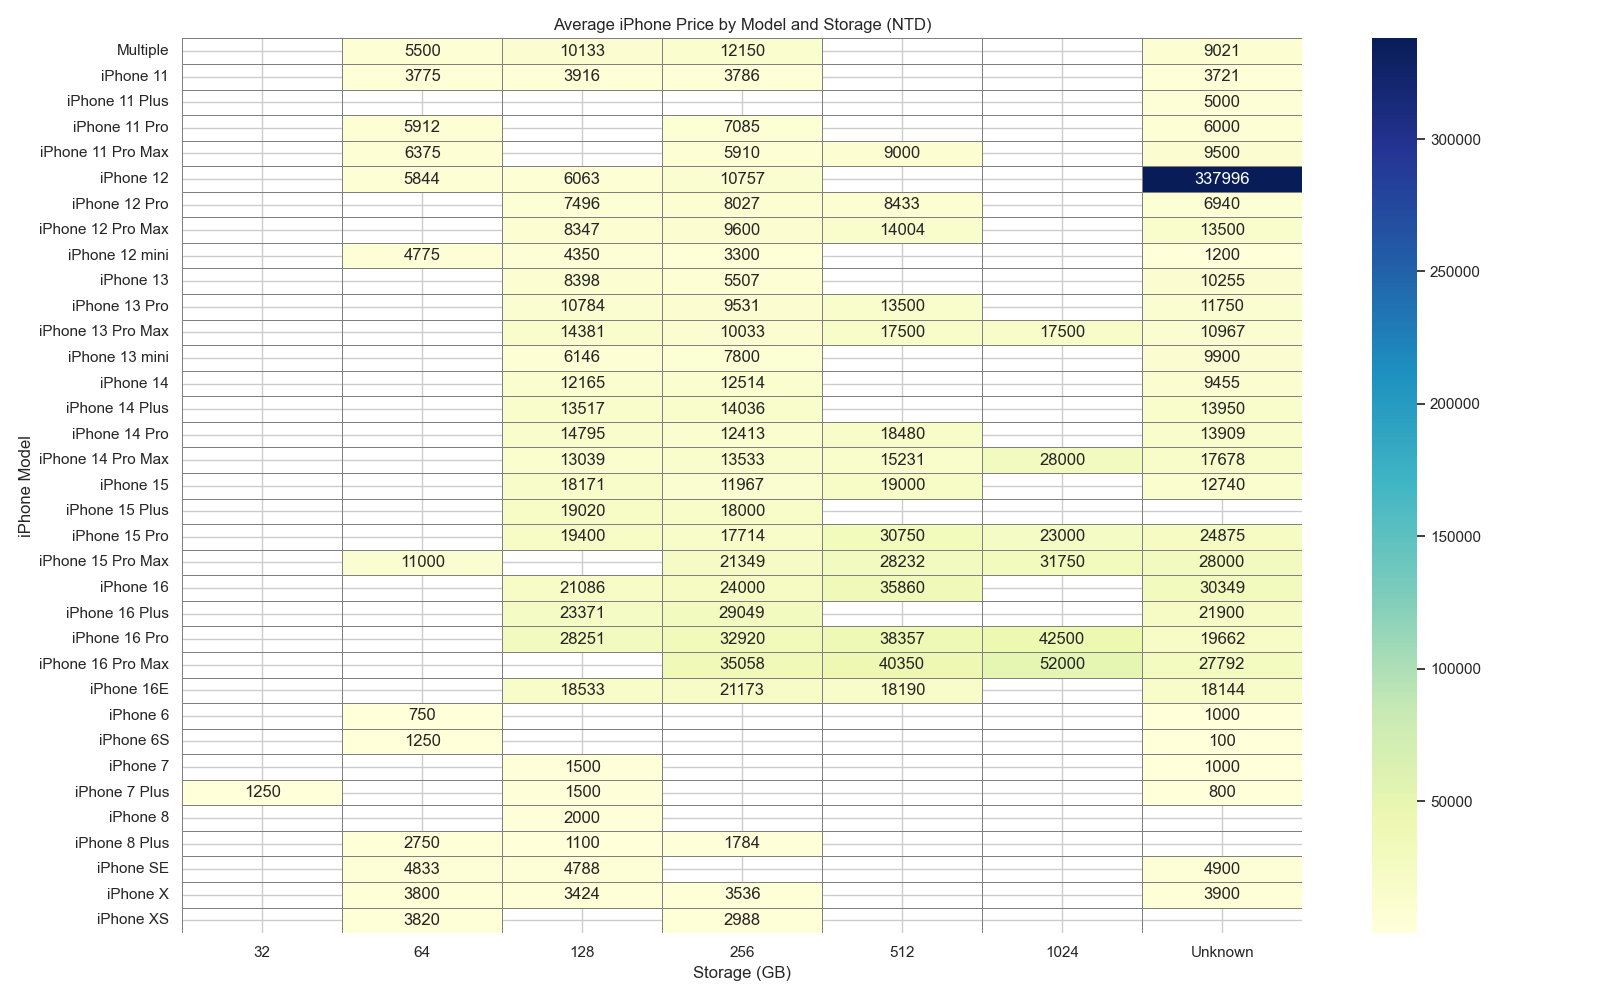
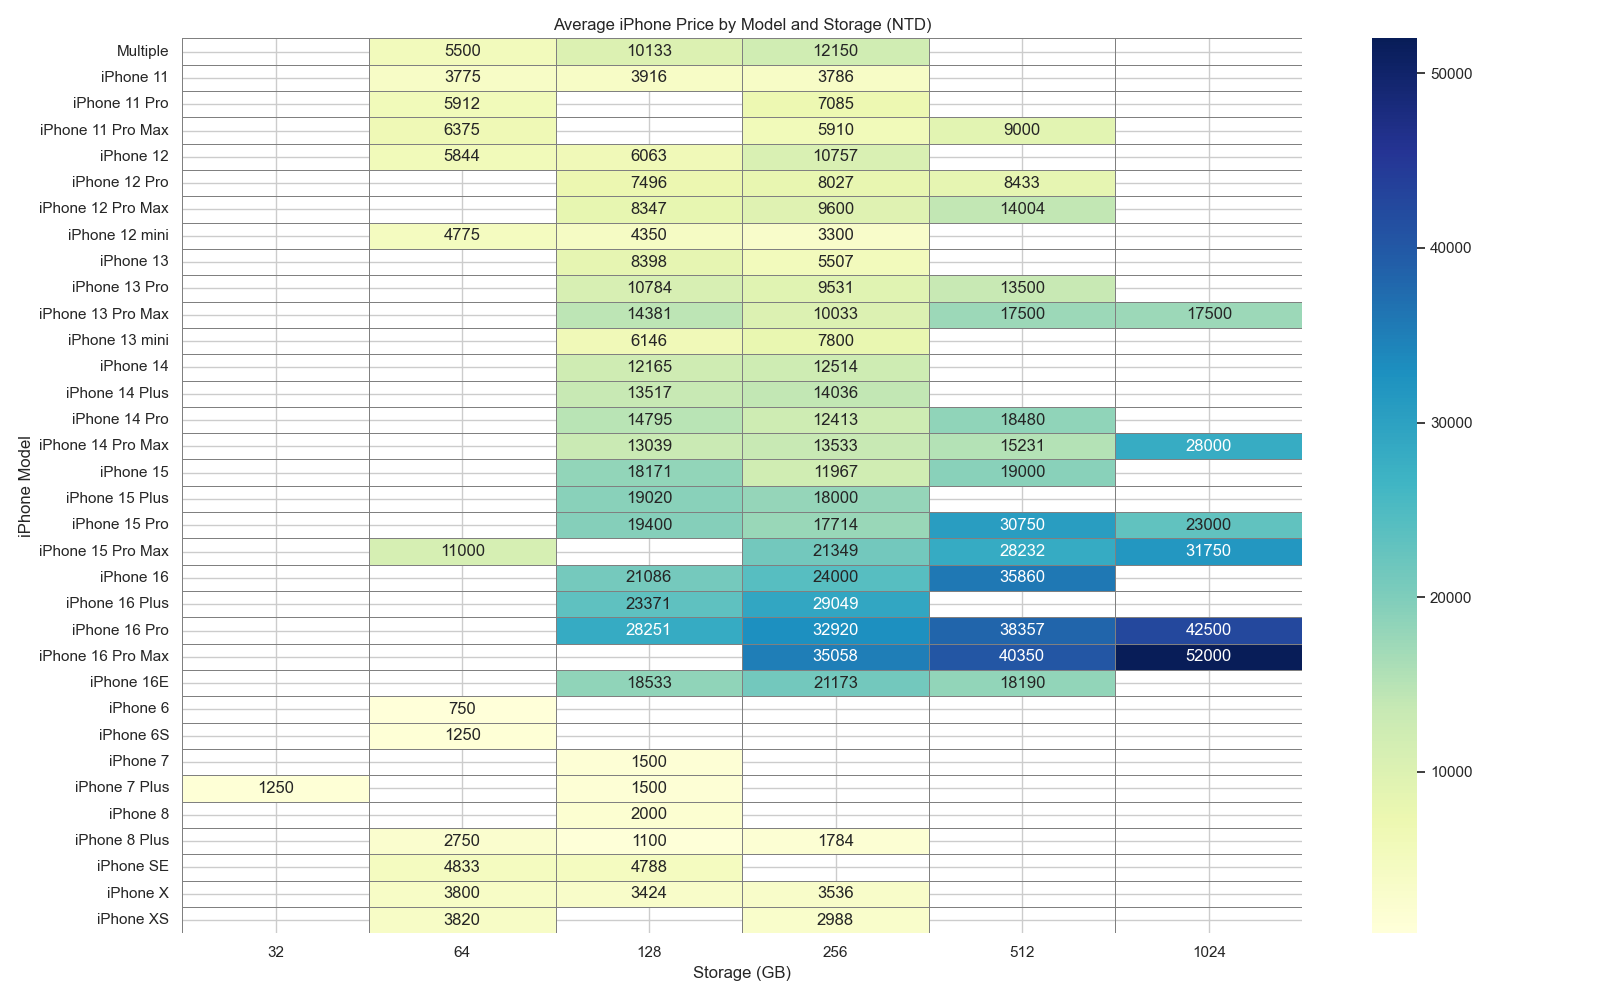
Filter our unknow storage from heatmap. Plot count of listings per model.

diff --git a/app.py b/app.py
@@ -318,7 +318,10 @@ plt.close()
 
 # 6. Heatmap: Average Price by iPhone Model and Storage Size
 heatmap_data = (
-    df_clean[df_clean["price_num"] > 0]  # remove zero prices
+    df_clean[
+        (df_clean["price_num"] > 0) &   # ✅ filter out zero prices
+        (df_clean["storage"].apply(lambda x: isinstance(x, (int, float))))  # ✅ filter out 'Unknown'
+    ]
     .groupby(["model", "storage"])["price_num"]
     .mean()
     .unstack()  # Make storage sizes the columns
@@ -340,5 +343,20 @@ plt.tight_layout()
 plt.savefig(os.path.join(output_plots_dir, "heatmap_model_vs_storage.png"))
 plt.close()
 
+# 7. Count of Listings per iPhone Model ===
+model_counts = df_clean["model"].value_counts().sort_values(ascending=True)
+
+plt.figure(figsize=(16, 10))  # 16:10 aspect ratio
+sns.barplot(x=model_counts.values, y=model_counts.index, palette="viridis")
+
+plt.title("Number of Listings per iPhone Model")
+plt.xlabel("Count")
+plt.ylabel("iPhone Model")
+plt.tight_layout()
+
+# Save the plot
+plt.savefig(os.path.join(output_plots_dir, "count_per_model_horizontal.png"))
+plt.close()
+
 print(f"Saved summary CSV and outlier CSV to {output_data_dir}")
-print(f"Saved 6 plots to {output_plots_dir}")
+print(f"Saved 7 plots to {output_plots_dir}")
